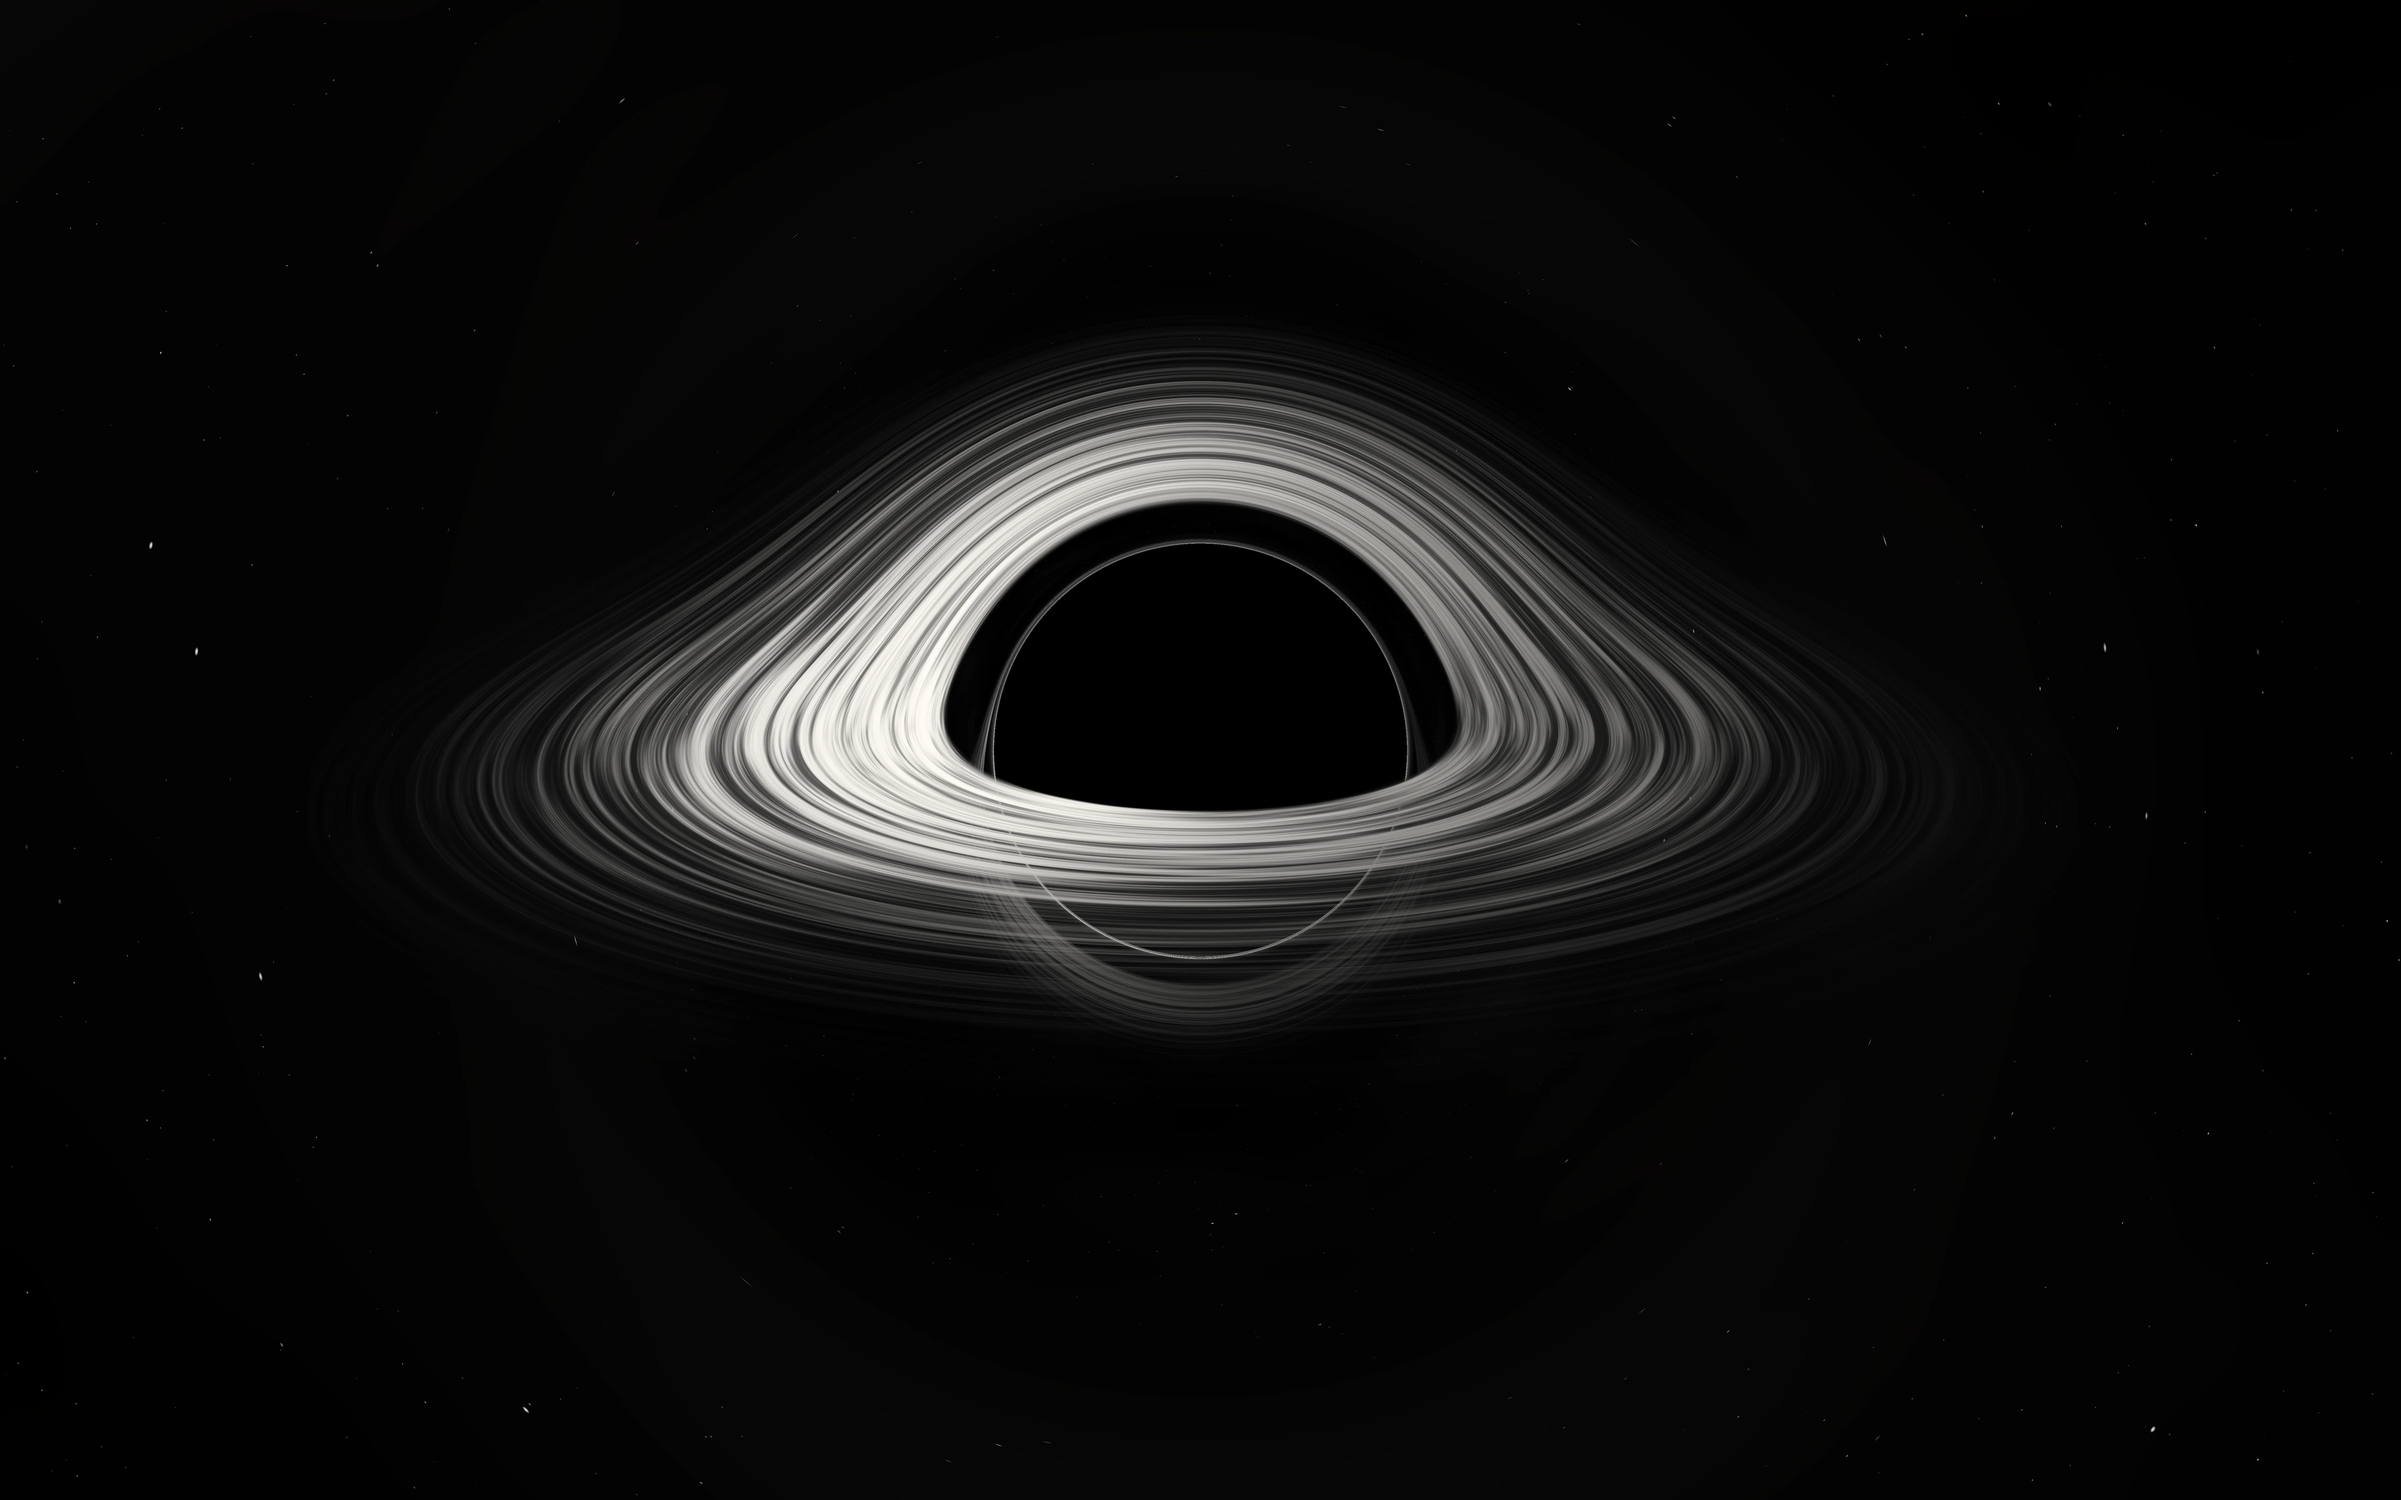
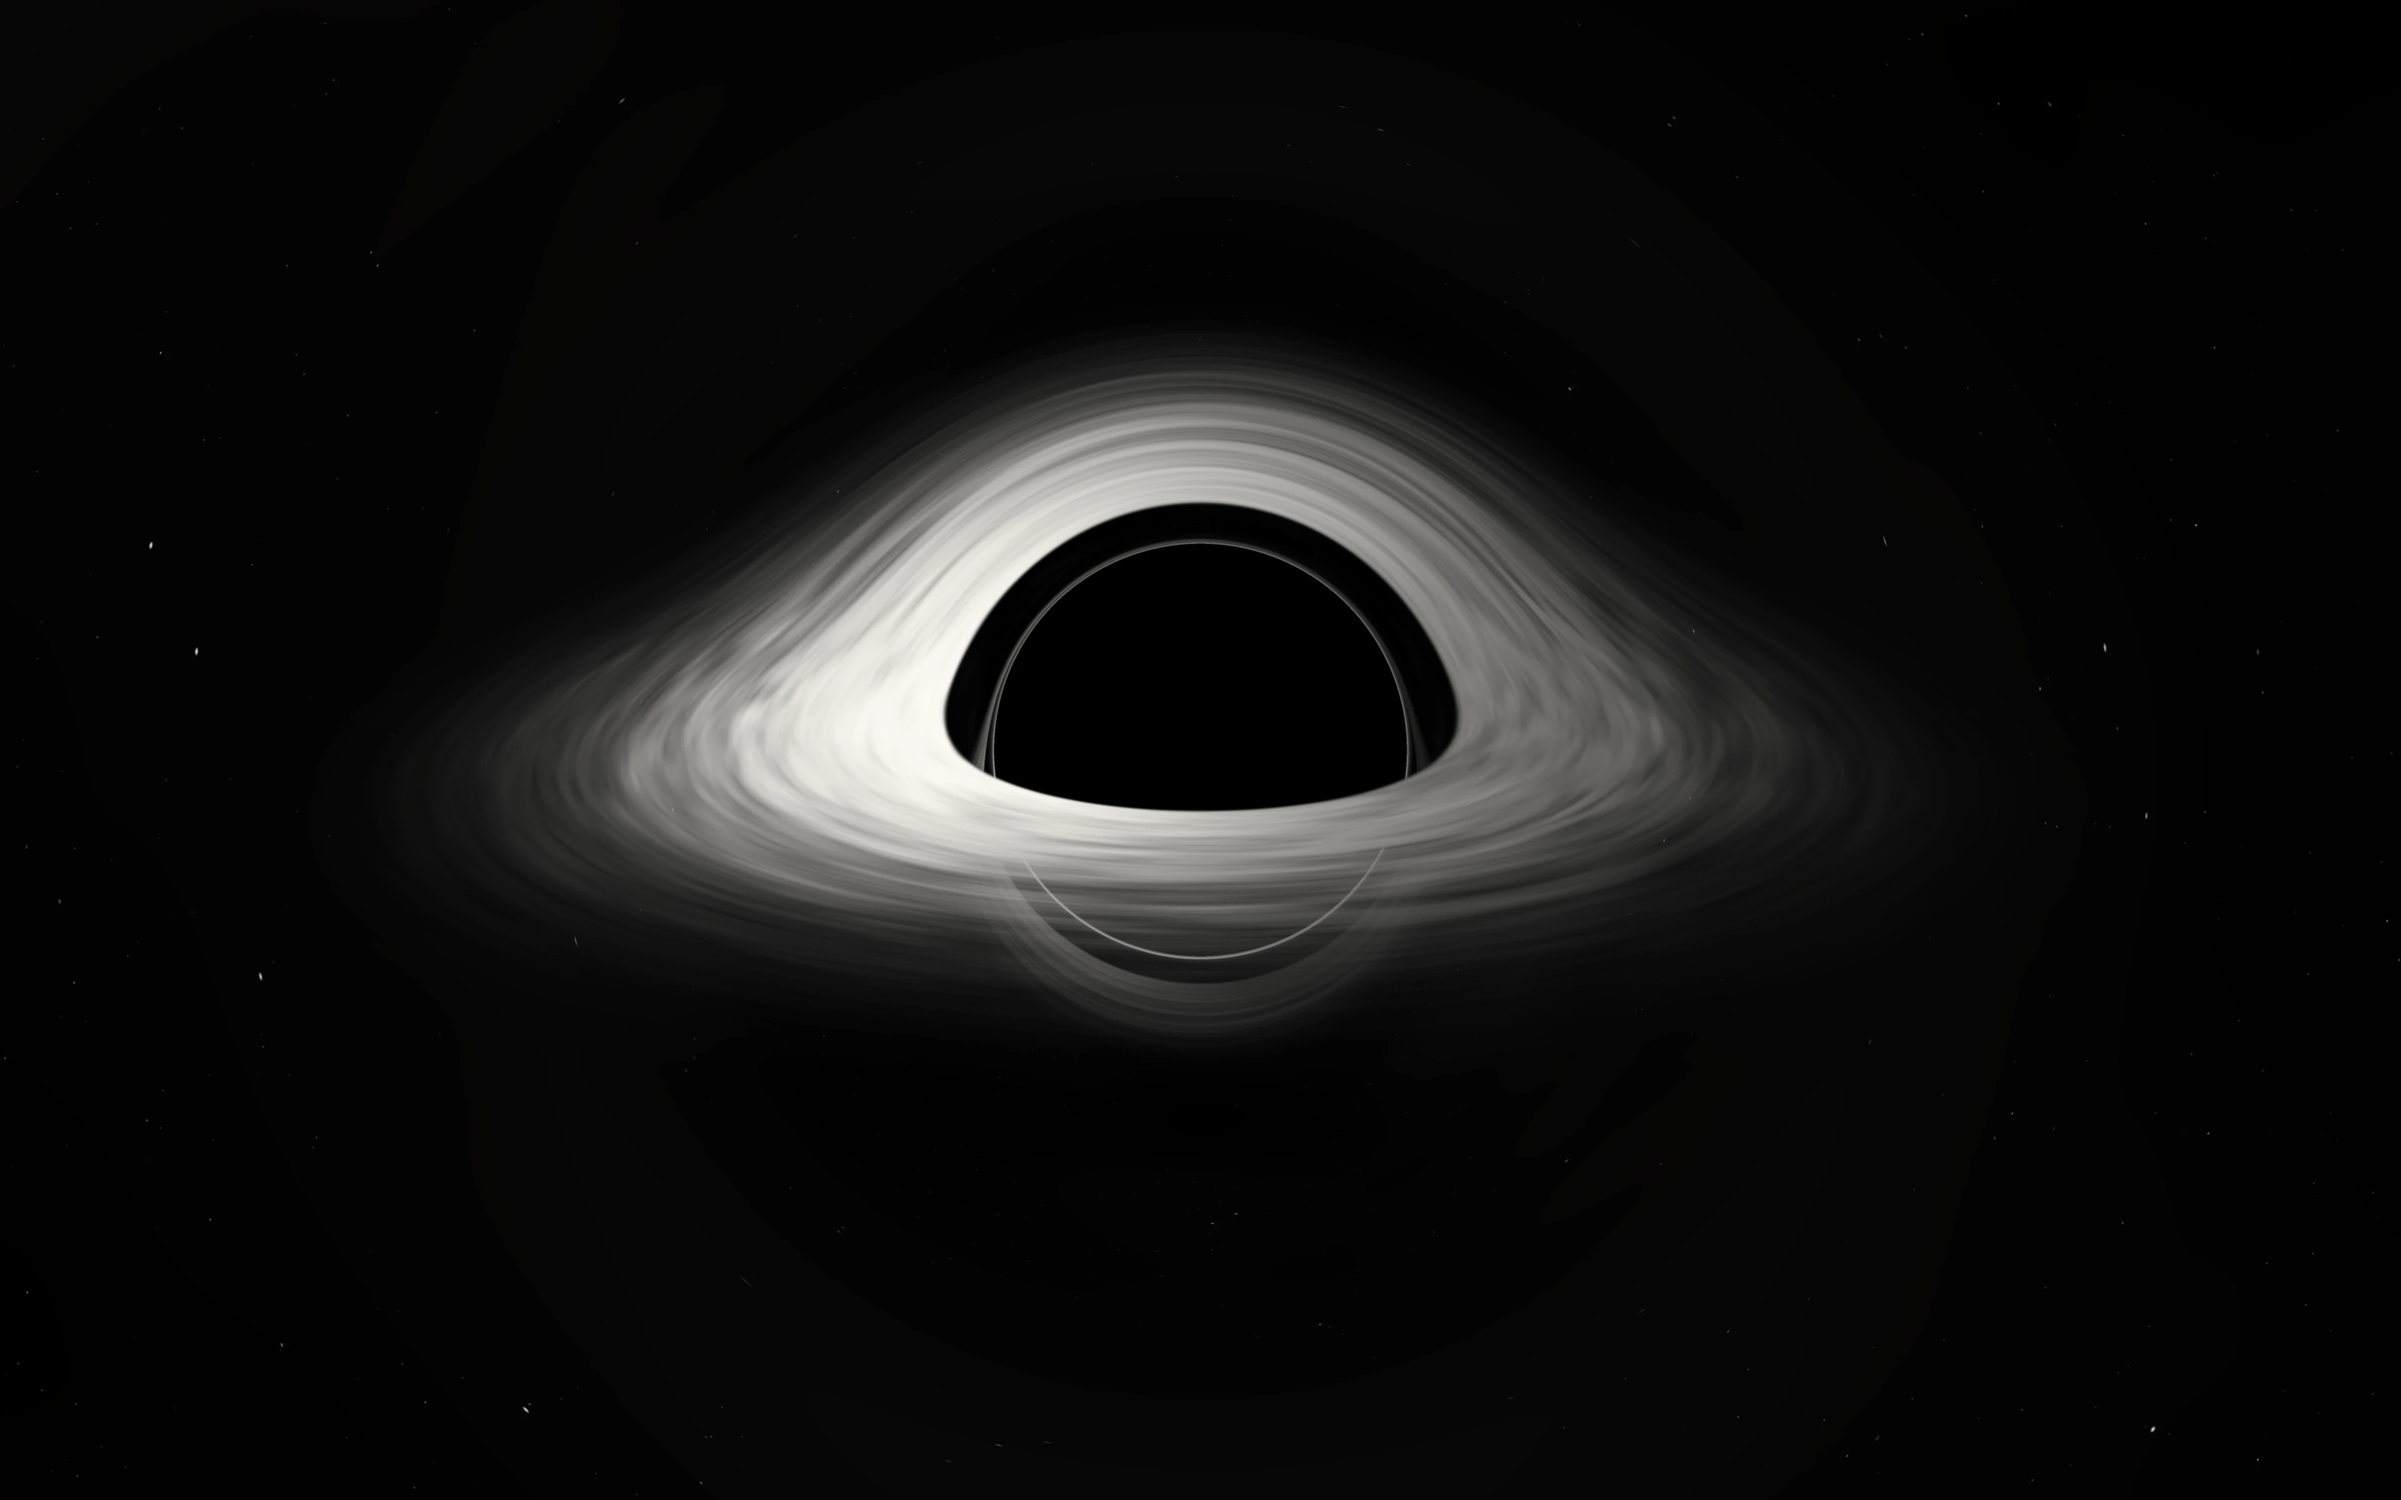
Site: the black hole's disk is blended gas, not strands; the hero text reads clearly over it

Changed region(s): [[0.2188, 0.25, 0.75, 0.6562]]

diff --git a/site/index.html b/site/index.html
@@ -37,7 +37,7 @@
          -webkit-mask-image: linear-gradient(#000 72%, transparent); mask-image: linear-gradient(#000 72%, transparent); }
   .sky picture { position: absolute; inset: -14px -14px calc(-14px - 8vh); display: block; transform: translate(var(--px, 0px), calc(var(--py, 0px) - 8vh));   /* the bright band sits behind the headline, not the small text */
                  transition: transform 1.4s cubic-bezier(.16,1,.3,1); }
-  .sky img { width: 100%; height: 100%; object-fit: cover; display: block; }
+  .sky img { width: 100%; height: 100%; object-fit: cover; display: block; filter: brightness(.78); }   /* a calmer backdrop for the text */
   @media (prefers-reduced-motion: reduce) { .sky picture { transition: none; } }
   main, nav, footer { position: relative; z-index: 1; }
   .wrap { width: min(1080px, 100% - 32px); margin-inline: auto; }
@@ -75,7 +75,12 @@
 
   /* hero: centered, the black hole sits behind it */
   .hero { min-height: 100svh; display: grid; place-items: center; text-align: center; padding: 76px 0 20vh; }   /* sits a little above the middle */
-  .hero .wrap > * { text-shadow: 0 1px 2px rgba(8,8,10,.8); }   /* readable over the bright disk */
+  .hero .wrap > * { text-shadow: 0 1px 3px rgba(8,8,10,.9); }
+  /* a soft dark pool right behind the words, so they read over the bright disk */
+  .hero .wrap { position: relative; }
+  .hero .wrap::before { content: ""; position: absolute; z-index: -1; left: 50%; top: 50%; width: min(980px, 120%); height: 115%;
+                        transform: translate(-50%, -50%); pointer-events: none;
+                        background: radial-gradient(closest-side, rgba(8,8,10,.62), rgba(8,8,10,.38) 55%, rgba(8,8,10,0)); }   /* readable over the bright disk */
   #crab { width: 96px; height: 96px; image-rendering: pixelated; margin: 0 auto 26px; display: block; }
   h1 { font: 700 clamp(40px, 7.4vw, 92px)/1.02 var(--pixel); letter-spacing: -.01em; margin: 0; text-wrap: balance; }
   h1 .dim { color: #c9c8c2; font-weight: 400; }

diff --git a/marketing/black-hole/render.html b/marketing/black-hole/render.html
@@ -56,8 +56,11 @@ const FS = `
             float ang = atan(q.z, q.x) + uT * .9 * pow(qr, -1.5);  // inner gas orbits faster, so the streaks shear
             vec2 cs = vec2(cos(ang), sin(ang));
             // streaks that follow the orbit: fine in radius, long along the circle (sampled on the circle: no seam)
-            float streak = noise3(vec3(qr * 9., cs * 1.2)) * .5 + noise3(vec3(qr * 26., cs * 2.5)) * .3 + noise3(vec3(qr * 70., cs * 5.)) * .2;
-            streak = smoothstep(.25, .85, streak);
+            // blended gas, not strands: broad bands and clumps that mix (a warped lookup keeps it swirling, not striped)
+            vec3 w = vec3(qr * 2.2, cs * 1.8);
+            vec3 warp = vec3(noise3(w), noise3(w + 7.1), noise3(w + 3.7)) - .5;
+            float streak = noise3(vec3(qr * 3.6, cs * 2.4) + warp * 1.6) * .55 + noise3(vec3(qr * 8.5, cs * 4.5) + warp) * .3 + noise3(vec3(qr * 18., cs * 8.)) * .15;
+            streak = mix(.55, streak, .75);
             float x = (qr - 2.45) / 9.55;
             float profile = smoothstep(0., .02, x) * pow(1. - x, 2.2) * smoothstep(1., .82, x);   // a sharp, hot inner edge fading outward
             vec3 orbit = normalize(vec3(-q.z, 0., q.x));
